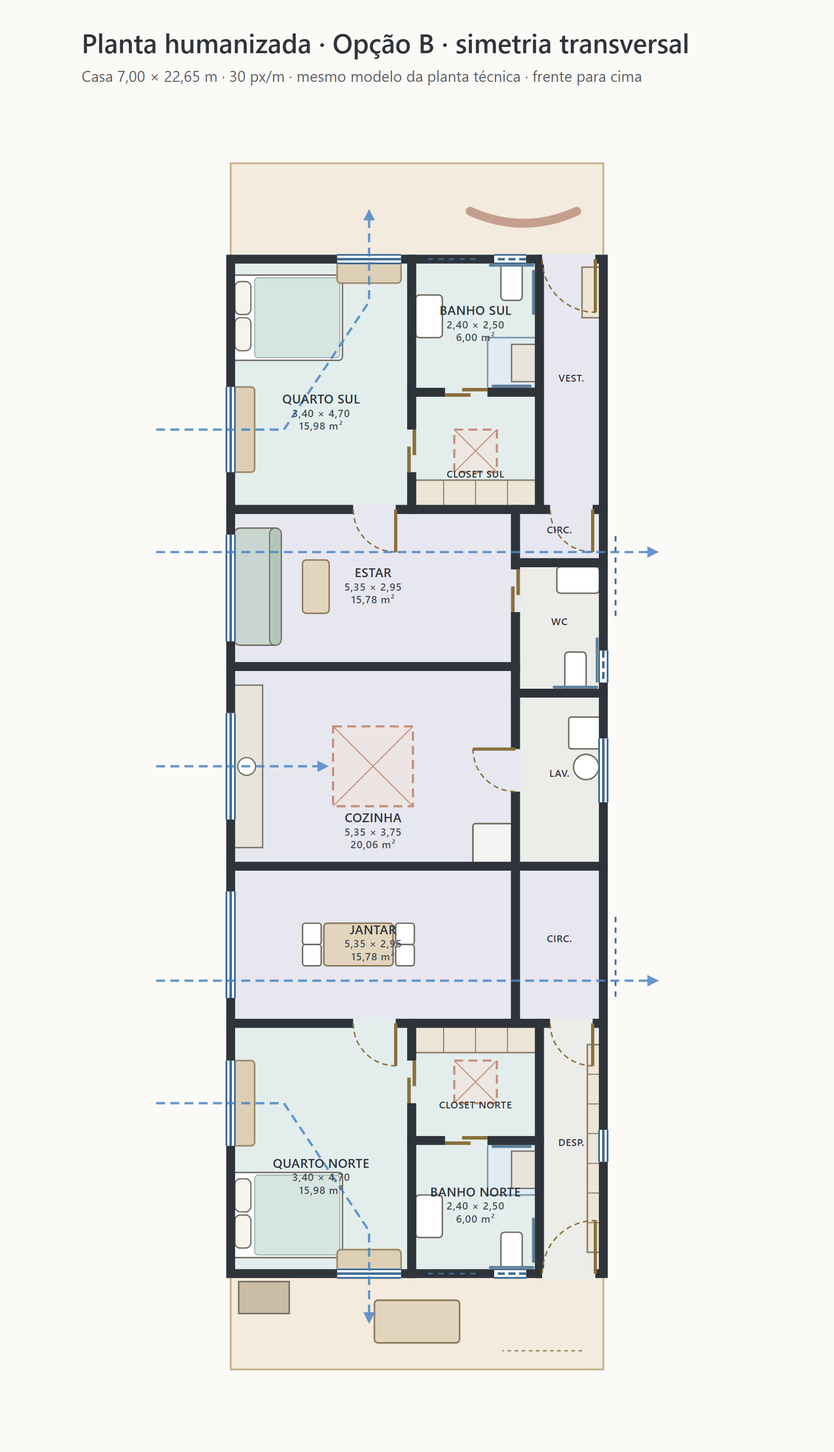
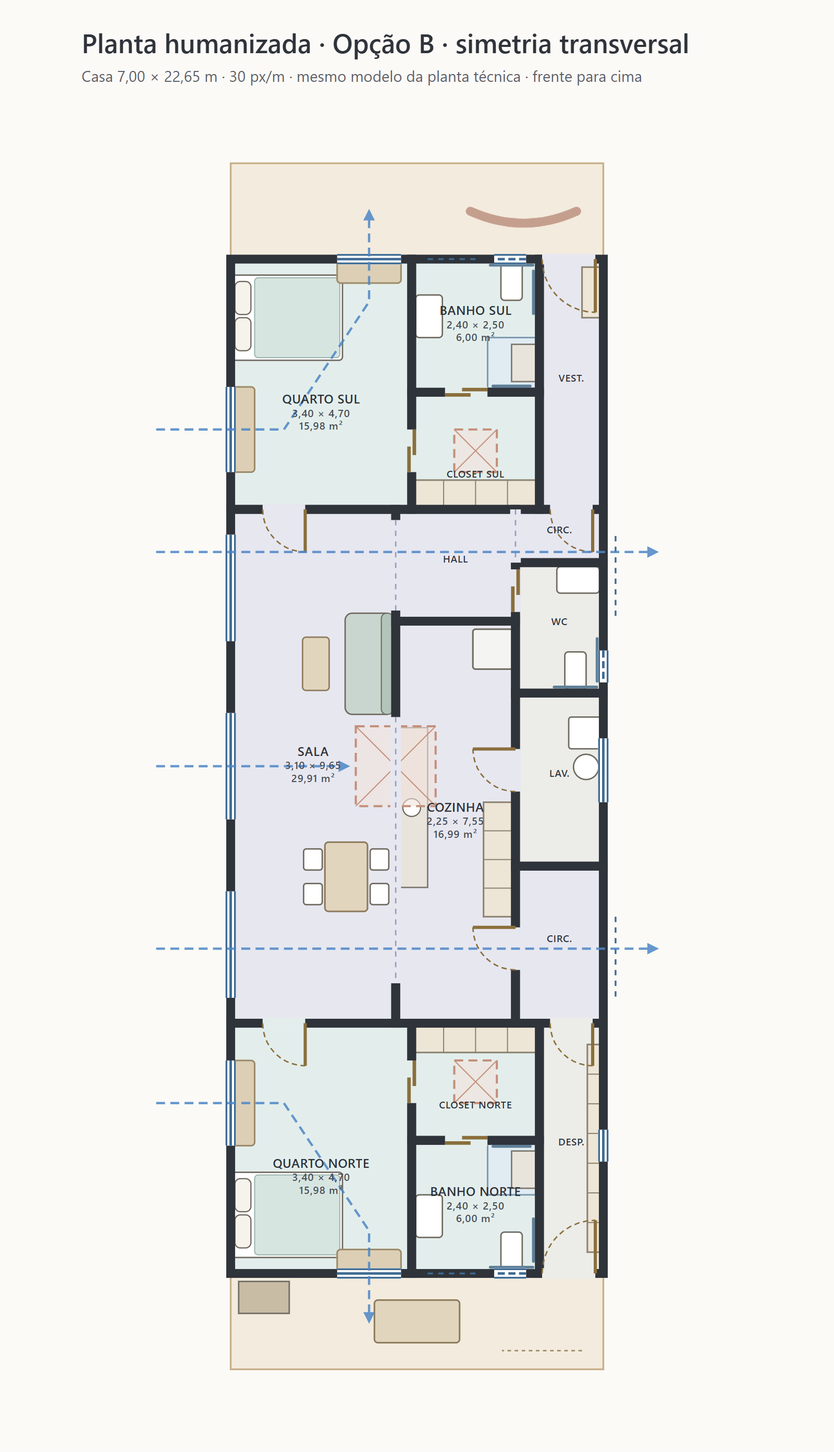
feat(casa-simetrica): opção B com sala única longitudinal, cozinha integrada e hall ao sul (M2)
Proposta principal aprovada: sala de estar e jantar de 3,10 × 9,65 m a
leste, cozinha integrada de 2,25 × 7,55 m com bancada voltada para a
sala e hall de 2,25 × 2,10 m. A visita vai do vestíbulo ao hall e à sala
sem passar pela cozinha; o WC abre para o hall; a circulação de serviço
liga a cozinha à despensa. As portas das suítes vão para o lado leste da
sala (a mesa de jantar encosta na cozinha e deixa 1,25 m para a rota).
Torre T1 na divisa aberta entre a cozinha e a sala. Planta técnica,
circulação, cortes, fachada, elevação, implantação, quadro, esquadrias e
textos atualizados; humanizadas reexportadas. Verificador de percurso
sem achado alto.

Changed region(s): [[0.2812, 0.3436, 0.625, 0.7185], [0.5312, 0.8122, 0.5938, 0.8434], [0.3125, 0.6873, 0.375, 0.7185]]

diff --git a/casa-simetrica/index.html b/casa-simetrica/index.html
@@ -1091,16 +1091,17 @@ function pImplA(){
 
 /* ---------- Opção B: geometria ----------
    x a partir da fachada oeste, d a partir da frente sul. Suítes: banho 2,40 × 2,50 e closet 2,40 × 2,20.
-   Social: faixa oeste de 1,65 m (circulação, WC acessível, lavanderia) e estar, cozinha e jantar com 5,35 m. */
+   Social (13/10/2026, miolo longitudinal): faixa oeste de 1,65 m (circulação, WC acessível, lavanderia); hall e cozinha integrada
+   com 2,25 m; sala única de estar e jantar com 3,10 m a leste. A visita vai do vestíbulo ao hall e à sala sem passar pela cozinha. */
 var BG={L:22.65,s1:6.5,c0:9.45,c1:13.2,fb:1.65,wc0:7.5,wc1:9.95,ax:11.325,t0:10.575,t1:12.075};
 var B2={id:'B2',nome:'Opção B · simetria transversal',o:ORI.S,Wb:7,L:BG.L,vseD:1.8,vnoD:1.8,
   amb:[['Quarto','3,40 × 4,70 m',2,15.98,'suite','Suíte'],['Banho acessível','2,40 × 2,50 m',2,6.00,'suite','Suíte'],['Closet','2,40 × 2,20 m',2,5.28,'suite','Suíte'],
-       ['Vestíbulo','1,20 × 4,70 m',1,5.64,'social','Social'],['Estar','5,35 × 2,95 m',1,15.7825,'social','Social'],['Cozinha','5,35 × 3,75 m',1,20.0625,'social','Social'],['Jantar','5,35 × 2,95 m',1,15.7825,'social','Social'],
+       ['Vestíbulo','1,20 × 4,70 m',1,5.64,'social','Social'],['Estar e jantar','3,10 × 9,65 m',1,29.915,'social','Social'],['Cozinha integrada','2,25 × 7,55 m',1,16.9875,'social','Social'],['Hall','2,25 × 2,10 m',1,4.725,'social','Social'],
        ['Circulações','1,65 × 1,00 + 1,65 × 2,95 m',1,6.5175,'social','Social'],
        ['WC social acessível','1,65 × 2,45 m',1,4.0425,'apoio','Apoio'],['Lavanderia','1,65 × 3,25 m',1,5.3625,'apoio','Apoio'],['Despensa e depósito','1,20 × 4,70 m',1,5.64,'apoio','Apoio']]};
 (function(){var z={suite:0,social:0,apoio:0}; B2.amb.forEach(function(r){z[r[4]]+=r[2]*r[3];});
   B2.vse=7*1.8; B2.vno=7*1.8; B2.nucleo=z.suite+z.social+z.apoio; B2.nucD=BG.L-3.6; B2.cob=7*BG.L;
-  B2.zonas=[z.suite,z.social,z.apoio,B2.vse+B2.vno]; B2.suiteTot=15.98+6.00+5.28; B2.sala=2*15.7825; B2.coz=20.0625;})();
+  B2.zonas=[z.suite,z.social,z.apoio,B2.vse+B2.vno]; B2.suiteTot=15.98+6.00+5.28; B2.sala=29.915; B2.coz=16.9875;})();
 function bMap(m){return {a0:1.275,su:1,d0:m?BG.L-4.225:4.225,sv:m?1:-1};}
 var BWC={a0:0.075,su:1,d0:7.575,sv:1};
 
@@ -1119,9 +1120,9 @@ function planB(){
   R(0,L-1.8,7,L,'z-var','Varanda norte, 7,00 × 1,80 m = 12,60 m², com churrasqueira, varal e mesa');
   R(0,1.8,1.2,6.5,'z-social','Vestíbulo de entrada, 1,20 × 4,70 m = 5,64 m², sapateira embutida');
   R(0,L-6.5,1.2,L-1.8,'z-apoio','Despensa e depósito, 1,20 × 4,70 m = 5,64 m², com prateleiras');
-  R(fb,6.5,7,9.45,'z-social','Estar, 5,35 × 2,95 m = 15,78 m²');
-  R(fb,9.45,7,13.2,'z-social','Cozinha, 5,35 × 3,75 m = 20,06 m²');
-  R(fb,13.2,7,16.15,'z-social','Jantar, 5,35 × 2,95 m = 15,78 m²');
+  R(fb,6.5,3.9,8.6,'z-social','Hall, 2,25 × 2,10 m = 4,73 m²');
+  R(3.9,6.5,7,16.15,'z-social','Sala de estar e jantar, 3,10 × 9,65 m = 29,91 m²');
+  R(fb,8.6,3.9,16.15,'z-social','Cozinha integrada, 2,25 × 7,55 m = 16,99 m², bancada de 3,00 m voltada para a sala');
   R(0,6.5,fb,7.5,'z-social','Circulação, 1,65 × 1,00 m');
   R(0,7.5,fb,9.95,'z-apoio','WC social acessível, 1,65 × 2,45 m = 4,04 m²');
   R(0,9.95,fb,13.2,'z-apoio','Lavanderia, 1,65 × 3,25 m = 5,36 m², com máquina e tanque');
@@ -1140,7 +1141,7 @@ function planB(){
     Ln(1.45,D(1.8),2.05,D(1.8),'win','J3, maxim-ar de 0,60 × 0,60 m sobre a bacia'); Ln(2.4,D(1.8),3.4,D(1.8),'hi','J4, basculante alto do banho');
     Ln(0.15,D(1.8),1.15,D(1.8),'dr');
     Ln(0.2,D(6.5),1.0,D(6.5),'dr');
-    Ln(3.9,D(6.5),4.7,D(6.5),'dr');
+    Ln(5.6,D(6.5),6.4,D(6.5),'dr');
     Ln(3.6,D(5.0),3.6,D(5.8),'dr');
     Ln(7,D(6.975),7,D(8.975),'win'); Ln(-0.23,D(7.0),-0.23,D(8.6),'hi');
     var tc=D(5.4); R(2.0,tc-0.4,2.8,tc+0.4,'z-torre','Torre T'+(m?'3':'2')+', 0,80 × 0,80 m, sobre o closet, abertura a oeste'); Tx(2.4,tc,m?'T3':'T2'); Ln(2.0,tc-0.4,2.0,tc+0.4,'op');
@@ -1148,20 +1149,21 @@ function planB(){
   });
   emitFix(BLY.B_wc,BWC,false,E);
   Ln(0,9.15,0,9.75,'win','J3, maxim-ar de 0,60 × 0,60 m sobre a bacia');
-  Ln(fb,11.0,fb,11.8,'dr'); Ln(0,10.8,0,12.0,'win'); Ln(0,L-4.5,0,L-3.9,'win');
+  Ln(fb,11.0,fb,11.8,'dr'); Ln(fb,14.35,fb,15.15,'dr','Cozinha → circulação de serviço, 0,80 m');
+  Ln(fb,6.5,fb,7.5,'vl','Vão livre de 1,00 m, circulação → hall'); Ln(3.9,6.7,3.9,8.4,'vl','Vão livre de 1,70 m, hall → sala'); Ln(3.9,10.4,3.9,15.4,'vl','Vão livre de 5,00 m entre a cozinha e a sala, com a bancada de 3,00 m'); Ln(0,10.8,0,12.0,'win'); Ln(0,L-4.5,0,L-3.9,'win');
   Ln(7,10.325,7,12.325,'win');
-  R(3.575,BG.t0,5.075,BG.t1,'z-torre','Torre T1, 1,50 × 1,50 m, sobre a cozinha, abertura a oeste'); Tx(4.325,BG.ax,'T1'); Ln(3.575,BG.t0,3.575,BG.t1,'op');
+  R(3.15,BG.t0,4.65,BG.t1,'z-torre','Torre T1, 1,50 × 1,50 m, sobre a divisa aberta entre a cozinha e a sala, abertura a oeste'); Tx(3.9,BG.ax,'T1'); Ln(3.15,BG.t0,3.15,BG.t1,'op');
   o.push('<line class="axis" x1="'+X(7.4)+'" y1="'+Y(BG.ax)+'" x2="'+X(-0.4)+'" y2="'+Y(BG.ax)+'"><title>Eixo de simetria transversal</title></line>');
   Pth([[8.4,5.0],[6.0,5.0],[4.4,2.6],[4.4,0.9]]);
   Pth([[8.4,mir(5.0)],[6.0,mir(5.0)],[4.4,mir(2.6)],[4.4,mir(0.9)]]);
-  Pth([[8.4,7.3],[-1.0,7.3]]); Pth([[8.4,mir(7.3)],[-1.0,mir(7.3)]]); Pth([[8.4,BG.ax],[5.2,BG.ax]]);
+  Pth([[8.4,7.3],[-1.0,7.3]]); Pth([[8.4,14.75],[-1.0,14.75]]); Pth([[8.4,BG.ax],[4.8,BG.ax]]);
   o.push('<text class="tx" x="'+X(3.5)+'" y="16" text-anchor="middle">Rua, sul</text>');
   Tx(5.8,0.9,'Var. S'); Tx(5.6,L-0.9,'Varanda N');
   T2(5.0,4.9,'Quarto','16,0 m²'); T2(5.0,mir(4.9),'Quarto','16,0 m²');
   Tx(2.4,6.15,'Closet'); Tx(2.4,mir(6.15),'Closet');
   Tx(0.6,3.2,'Vest.'); Tx(0.6,mir(3.2),'Desp.');
-  T2(5.0,7.975,'Estar','15,8 m²'); T2(5.0,mir(7.975),'Jantar','15,8 m²');
-  T2(6.0,10.4,'Cozinha','20,1 m²'); Tx(0.82,12.7,'Lav.');
+  Tx(5.75,8.0,'Estar'); T2(5.75,13.0,'Sala','29,9 m²'); Tx(5.75,15.6,'Jantar');
+  T2(2.6,9.9,'Cozinha','17,0 m²'); Tx(2.775,7.6,'Hall'); Tx(0.82,12.7,'Lav.');
   return northUp(o.join(''),X(-1.3)+10,Y(L)+36,180,'Planta técnica, opção B','Casa de 7 por 22,65 metros com eixo de simetria transversal, desenhada com o norte para cima; a rua fica ao sul.');
 }
 function implB(){
@@ -1178,7 +1180,7 @@ function implB(){
   R(1.5,f,8.5,f+1.8,'z-var','Varanda sul'); R(1.5,n1,8.5,f+L,'z-var','Varanda norte');
   R(1.5,f+1.8,2.7,f+6.5,'z-social','Vestíbulo'); R(2.7,f+1.8,5.1,f+6.5,'z-suite','Banho acessível e closet'); R(5.1,f+1.8,8.5,f+6.5,'z-suite','Quarto da suíte sul');
   R(1.5,n0,2.7,n1,'z-apoio','Despensa e depósito'); R(2.7,n0,5.1,n1,'z-suite','Banho acessível e closet'); R(5.1,n0,8.5,n1,'z-suite','Quarto da suíte norte');
-  R(1.5,f+6.5,3.15,n0,'z-apoio','Faixa oeste: circulação, WC acessível e lavanderia'); R(3.15,f+6.5,8.5,n0,'z-social','Estar, cozinha e jantar');
+  R(1.5,f+6.5,3.15,n0,'z-apoio','Faixa oeste: circulação, WC acessível e lavanderia'); R(3.15,f+6.5,5.4,n0,'z-social','Hall e cozinha integrada'); R(5.4,f+6.5,8.5,n0,'z-social','Sala de estar e jantar');
   T(X(6.8),Y(f+4.2)+4,'Suíte','middle'); T(X(5.8),Y(f+BG.ax)+4,'Social','middle'); T(X(6.8),Y(n0+2.4)+4,'Suíte','middle'); T(X(5),Y(f+L+rear/2)+4,'Quintal','middle');
   o.push('<rect class="lot" x="'+X(10)+'" y="'+Y(0)+'" width="120" height="360"><title>Lote de 10,00 × 30,00 m</title></rect>');
   o.push('<line class="axis" x1="'+(X(10)-6)+'" y1="'+Y(f+BG.ax)+'" x2="'+(X(0)+6)+'" y2="'+Y(f+BG.ax)+'"><title>Eixo de simetria transversal</title></line>');
@@ -1197,7 +1199,7 @@ function longB(){
   o.push('<text class="tx" x="18" y="24">S</text><text class="tx" x="364" y="24" text-anchor="end">N</text>');
   RB(0,1.8,3.0,'z-var','Varanda sul, laje a 3,00 m');
   RB(1.8,6.5,3.0,'z-suite','Quarto da suíte sul, 3,00 m');
-  RB(6.5,L-6.5,4.2,'z-social','Estar, cozinha e jantar, 4,20 m junto às paredes');
+  RB(6.5,L-6.5,4.2,'z-social','Sala, cozinha e hall, 4,20 m junto às paredes');
   RB(L-6.5,L-1.8,3.0,'z-suite','Quarto da suíte norte, 3,00 m');
   RB(L-1.8,L,3.0,'z-var','Varanda norte, laje a 3,00 m');
   Ln(X(0),Y(3.15),X(6.5),Y(3.15),'slab'); Ln(X(L-6.5),Y(3.15),X(L),Y(3.15),'slab');
@@ -1215,11 +1217,11 @@ function longB(){
   o.push('<path class="flow" d="M'+X(7.6)+' '+Y(1.2)+' Q'+X(9.8)+' '+Y(1.5)+' '+X(sm-0.3)+' '+Y(5.0)+' L'+X(sm-0.3)+' '+Y(7.6)+'" marker-end="url(#arw)"/>');
   o.push('<path class="flow" d="M'+X(L-7.6)+' '+Y(1.2)+' Q'+X(L-9.8)+' '+Y(1.5)+' '+X(sm+0.3)+' '+Y(5.0)+' L'+X(sm+0.3)+' '+Y(7.6)+'" marker-end="url(#arw)"/>');
   function B(d,t,y){o.push('<text class="tx" x="'+X(d)+'" y="'+(y||G+18)+'" text-anchor="middle">'+t+'</text>');}
-  B(0.9,'Var.'); B(4.15,'Suíte'); B(8.0,'Estar'); B(sm,'Cozinha'); B(sm,'4,2 a 5,0 m',G+34); B(L-8.0,'Jantar'); B(L-4.15,'Suíte'); B(L-0.9,'Var.');
-  return svgOpen(380,G+46,'Corte longitudinal, opção B','Sul à esquerda, norte à direita. Suítes nas extremidades, social no centro e torre T1 sobre a cozinha.')+o.join('')+'</svg>';
+  B(0.9,'Var.'); B(4.15,'Suíte'); B(sm,'Estar e jantar'); B(sm,'4,2 a 5,0 m',G+34); B(L-4.15,'Suíte'); B(L-0.9,'Var.');
+  return svgOpen(380,G+46,'Corte longitudinal, opção B','Sul à esquerda, norte à direita. Suítes nas extremidades, social no centro e torre T1 entre a cozinha e a sala.')+o.join('')+'</svg>';
 }
 function transB(){
-  var s=22,cx=170,G=Math.round(64+8.3*s),o=[],m=5,w0=-1.85,t0=0.075,t1=1.575;
+  var s=22,cx=170,G=Math.round(64+8.3*s),o=[],m=5,w0=-1.85,t0=-0.35,t1=1.15;
   function U(u){return +(cx+u*s).toFixed(1);} function H(h){return +(G-h*s).toFixed(1);}
   function RU(u1,h1,u2,h2,c,t){o.push('<rect class="'+c+'" x="'+U(u1)+'" y="'+H(h2)+'" width="'+(U(u2)-U(u1)).toFixed(1)+'" height="'+(H(h1)-H(h2)).toFixed(1)+'">'+(t?'<title>'+t+'</title>':'')+'</rect>');}
   function Ln(x1,y1,x2,y2,c){o.push('<line class="'+c+'" x1="'+x1+'" y1="'+y1+'" x2="'+x2+'" y2="'+y2+'"/>');}
@@ -1229,7 +1231,7 @@ function transB(){
   RU(-3.5,0,w0,3.0,'z-apoio','Lavanderia, 1,65 m de largura, laje a 3,00 m');
   Ln(U(-3.5),H(3.15),U(w0),H(3.15),'slab');
   RU(w0+0.15,3.2,3.35,4.2,'warm','Camada de ar quente acima de 3,20 m');
-  RU(t0,5.3,t1,8.3,'z-torre','Torre T1, 1,50 m de lado, sobre a cozinha');
+  RU(t0,5.3,t1,8.3,'z-torre','Torre T1, 1,50 m de lado, sobre a divisa aberta entre a cozinha e a sala');
   Ln(U(t0),H(8.1),U(t0),H(6.9),'op');
   [7.2,7.5,7.8].forEach(function(h){Ln(U(t0+0.25),H(h),U(t1-0.25),H(h),'vz');});
   o.push('<polyline class="ceil" points="'+U(w0+0.15)+','+H(4.2)+' '+U(t0)+','+H(5.0)+' '+U(t1)+','+H(5.0)+' '+U(3.35)+','+H(4.2)+'"/>');
@@ -1251,8 +1253,8 @@ function transB(){
   function Dm(h,x0,t){Ln(x0,H(h),350,H(h),'ld'); o.push('<text class="tx" x="354" y="'+(H(h)+4)+'">'+t+'</text>');}
   Dm(8.3,U(t1),'8,30'); Dm(5.3,U(3.5),'5,30'); Dm(3.0,U(4.0),'3,00'); o.push('<text class="tx" x="354" y="'+(G+4)+'">0,00</text>');
   var yb=G+18;
-  o.push('<text class="tx" x="14" y="'+yb+'">O</text><text class="tx" x="'+U(-4.25)+'" y="'+yb+'" text-anchor="middle">1,50</text><text class="tx" x="'+U(-2.675)+'" y="'+yb+'" text-anchor="middle">Lav.</text><text class="tx" x="'+U(0.9)+'" y="'+yb+'" text-anchor="middle">Cozinha, 5,35 m</text><text class="tx" x="'+U(4.25)+'" y="'+yb+'" text-anchor="middle">1,50</text><text class="tx" x="360" y="'+yb+'" text-anchor="end">L</text>');
-  return svgOpen(380,G+30,'Corte transversal pela cozinha, opção B','Oeste à esquerda, leste à direita. Lavanderia baixa a oeste, cozinha com forro em funil até a torre T1 e janelas altas acima da faixa de apoio.')+o.join('')+'</svg>';
+  o.push('<text class="tx" x="14" y="'+yb+'">O</text><text class="tx" x="'+U(-4.25)+'" y="'+yb+'" text-anchor="middle">1,50</text><text class="tx" x="'+U(-2.675)+'" y="'+yb+'" text-anchor="middle">Lav.</text><text class="tx" x="'+U(-0.72)+'" y="'+yb+'" text-anchor="middle">Cozinha</text><text class="tx" x="'+U(1.95)+'" y="'+yb+'" text-anchor="middle">Sala</text><text class="tx" x="'+U(4.25)+'" y="'+yb+'" text-anchor="middle">1,50</text><text class="tx" x="360" y="'+yb+'" text-anchor="end">L</text>');
+  return svgOpen(380,G+30,'Corte transversal pela cozinha, opção B','Oeste à esquerda, leste à direita. Lavanderia baixa a oeste, cozinha e sala integradas com forro em funil até a torre T1 e janelas altas acima da faixa de apoio.')+o.join('')+'</svg>';
 }
 function facadeB(){
   var s=22,cx=190,G=Math.round(66+8.3*s),o=[],m=5;
@@ -1261,7 +1263,7 @@ function facadeB(){
   function Ln(x1,y1,x2,y2,c){o.push('<line class="'+c+'" x1="'+x1+'" y1="'+y1+'" x2="'+x2+'" y2="'+y2+'"/>');}
   o.push('<text class="tx" x="20" y="30">Vista da rua, olhando para norte</text>');
   RU(-1.85,3.3,3.5,5.3,'z-social','Volume social, recuado, platibanda a 5,30 m');
-  RU(0.075,5.3,1.575,8.3,'z-torre','Torre T1, sobre a cozinha');
+  RU(-0.35,5.3,1.15,8.3,'z-torre','Torre T1, entre a cozinha e a sala');
   RU(-1.5,3.3,-0.7,5.8,'z-torre','Torre T2, sobre o closet da suíte sul');
   RU(-3.5,0,3.5,3.0,'z-suite','Plano da fachada sul');
   RU(-3.62,3.0,3.62,3.3,'z-struct','Laje da varanda, 3,00 a 3,30 m');
@@ -1278,7 +1280,7 @@ function facadeB(){
   RU(-m-0.15,0,-m,2.5,'z-struct','Muro de divisa oeste, 2,50 m'); RU(m,0,m+0.15,2.5,'z-struct','Muro de divisa leste, 2,50 m');
   Ln(20,G,360,G,'gnd');
   function Dm(h,x0,t,dy){Ln(x0,H(h),352,H(h),'ld'); o.push('<text class="tx" x="354" y="'+(H(h)+(dy||4))+'">'+t+'</text>');}
-  Dm(8.3,U(1.575),'8,30'); Dm(5.3,U(3.5),'5,30'); Dm(3.3,U(3.62),'3,30'); Dm(2.65,U(1.5),'2,65');
+  Dm(8.3,U(1.15),'8,30'); Dm(5.3,U(3.5),'5,30'); Dm(3.3,U(3.62),'3,30'); Dm(2.65,U(1.5),'2,65');
   o.push('<text class="tx" x="354" y="'+(G+4)+'">0,00</text>');
   var yb=G+20;
   o.push('<text class="tx" x="'+U(-m)+'" y="'+yb+'" text-anchor="middle">O</text><text class="tx" x="'+U(-2.85)+'" y="'+yb+'" text-anchor="middle">Entrada</text><text class="tx" x="'+U(-0.9)+'" y="'+yb+'" text-anchor="middle">Banho</text><text class="tx" x="'+U(1.9)+'" y="'+yb+'" text-anchor="middle">Suíte sul</text><text class="tx" x="'+U(m)+'" y="'+yb+'" text-anchor="middle">L</text>');
@@ -1302,14 +1304,14 @@ function elevB(){
     V(j[2],j[2]+0.12,0.4,2.72,'z-struct','Aleta no batente do lado da cama');
   });
   V(6.975,8.975,0.9,2.3,'z-glass','J5, correr com veneziana, 2,00 × 1,40 m'); V(L-8.975,L-6.975,0.9,2.3,'z-glass','J5, correr com veneziana, 2,00 × 1,40 m');
-  V(10.325,12.325,1.1,2.3,'z-glass','J7, cozinha, 2,00 × 1,20 m');
+  V(10.325,12.325,1.1,2.3,'z-glass','J7, sala, no eixo, 2,00 × 1,20 m');
   Ln(X(6.5),Y(4.5),X(L-6.5),Y(4.5),'fin');
   o.push('<line class="axis" x1="'+X(BG.ax)+'" y1="34" x2="'+X(BG.ax)+'" y2="'+(G+6)+'"><title>Eixo de simetria transversal</title></line>');
   Ln(20,G,348,G,'gnd');
   function Dm(h,x0,t){Ln(x0,Y(h),350,Y(h),'ld'); o.push('<text class="tx" x="354" y="'+(Y(h)+4)+'">'+t+'</text>');}
   Dm(8.3,X(tB),'8,30'); Dm(5.3,X(L-6.5),'5,30'); Dm(3.3,X(L-1.8),'3,30');
   var yb=G+18;
-  [[0,'S'],[4.15,'Suíte sul'],[8.0,'Estar'],[BG.ax,'Cozinha'],[L-8.0,'Jantar'],[L-4.15,'Suíte norte'],[L,'N']].forEach(function(p){o.push('<text class="tx" x="'+X(p[0])+'" y="'+yb+'" text-anchor="middle">'+p[1]+'</text>');});
+  [[0,'S'],[4.15,'Suíte sul'],[8.0,'Estar'],[BG.ax,'Sala'],[L-8.0,'Jantar'],[L-4.15,'Suíte norte'],[L,'N']].forEach(function(p){o.push('<text class="tx" x="'+X(p[0])+'" y="'+yb+'" text-anchor="middle">'+p[1]+'</text>');});
   return svgOpen(380,G+30,'Elevação leste, opção B','Sul à esquerda, norte à direita. Fachada simétrica em relação ao eixo transversal, com as janelas-banco dos quartos a nascente.')+o.join('')+'</svg>';
 }
 
@@ -1320,18 +1322,18 @@ function sinteseB(){
   '<div class="hero" style="align-items:start"><div><p class="lede">Com a frente para sul, a rua deixa de receber o sol da manhã. O eixo de simetria passa a ser transversal: as suítes ocupam as duas extremidades e abrem para a lateral leste, e o lado oeste concentra circulações, lavanderia e áreas molhadas como barreira térmica.</p>'+
   '<div class="stats" style="grid-template-columns:repeat(2,minmax(0,1fr))">'+
   stat('Suíte completa',calc(f2(v.suiteTot)+' m²','15,98 (quarto) + 6,00 (banho) + 5,28 (closet) = '+f2(v.suiteTot)+' m²'),'--patina')+
-  stat('Estar e jantar',calc(f2(v.sala)+' m²','15,78 (estar) + 15,78 (jantar); com a cozinha central integrada, '+f2(v.sala+v.coz)+' m²'),'--slate')+
-  stat('Cozinha',calc(f2(v.coz)+' m²','5,35 × 3,75 = '+f2(v.coz)+' m² (mínimo exigido: 20)'),'--slate')+
+  stat('Estar e jantar',calc(f2(v.sala)+' m²','sala única de 3,10 × 9,65 m; com a cozinha integrada, '+f2(v.sala+v.coz)+' m²'),'--slate')+
+  stat('Cozinha',calc(f2(v.coz)+' m²','2,25 × 7,55 = '+f2(v.coz)+' m², integrada à sala (premissa: 20)'),'--slate')+
   stat('Área coberta',calc(f2(v.cob)+' m²',f2(v.nucleo)+' (fechada) + 25,20 (varandas) = '+f2(v.cob)+' m²'))+
   '</div></div>'+
   '<div class="carimbo"><div class="title">Frente sul</div>'+
   '<div class="row">'+cell('Quarto','3,40 × 4,70 m (15,98 m²)')+cell('Casa','7,00 × '+f2(BG.L)+' m')+'</div>'+
   '<div class="row">'+cell('Lote','10,00 × 30,00 m')+cell('Ocupação',calc(pct(v.cob/300),f2(v.cob)+' ÷ 300,00 = '+pct(v.cob/300)))+'</div>'+
-  '<div class="row">'+cell('Eixo de simetria','Transversal, y = '+f2(BG.ax))+cell('Torre T1','1,50 m, sobre a cozinha')+'</div>'+
+  '<div class="row">'+cell('Eixo de simetria','Transversal, y = '+f2(BG.ax))+cell('Torre T1','1,50 m, entre a cozinha e a sala')+'</div>'+
   '<div class="row">'+cell('Iluminação do quarto',calc('6,16 m²','(1,60 + 1,20) × 2,20 = 6,16 m², contra o mínimo usual de 15,98 ÷ 6 = 2,66 m²'))+cell('Recuo de fundo',calc(f2(30-5-BG.L)+' m','30,00 − 5,00 − '+f2(BG.L)+' = '+f2(30-5-BG.L)+' m'))+'</div>'+
   '</div></div>'+
   '<div class="grid2"><div class="card tint" style="--c:var(--patina)"><h3>O que a frente sul preserva</h3><ul class="clean" style="--c:var(--patina)"><li>Simetria perfeita, agora entre a metade sul e a metade norte.</li><li>Quartos com janela principal para leste e sol exclusivamente matinal.</li><li>Banho acessível com entrada exclusiva pela suíte, via closet.</li><li>Lado oeste ocupado por vestíbulo, despensa, WC, lavanderia e banhos: o colchão térmico da premissa original.</li></ul></div>'+
-  '<div class="card tint" style="--c:var(--rust)"><h3>Concessões</h3><ul class="clean" style="--c:var(--rust)"><li>Estar e jantar somam '+f2(v.sala)+' m², abaixo dos 40 m² das premissas; com a cozinha central integrada, o espaço social contínuo chega a '+f2(v.sala+v.coz)+' m².</li><li>As janelas leste dos quartos ficam a 1,50 m do muro: o peitoril só recebe sol a partir de cerca de 54° de altura solar.</li><li>O vento chega à lateral leste depois de passar pela casa vizinha; as torres T1, T2 e T3 passam a ser essenciais.</li><li>A entrada fica fora do eixo, junto à lateral oeste, e a fachada da rua não é simétrica.</li></ul></div></div>'+
+  '<div class="card tint" style="--c:var(--rust)"><h3>Concessões</h3><ul class="clean" style="--c:var(--rust)"><li>Estar e jantar somam '+f2(v.sala)+' m², abaixo dos 40 m² das premissas; com a cozinha integrada, o espaço social contínuo chega a '+f2(v.sala+v.coz)+' m².</li><li>A cozinha tem '+f2(v.coz)+' m², abaixo dos 20 m² das premissas, e não tem janela externa: recebe luz e ar pela sala e pela torre T1, sobre a divisa aberta.</li><li>As janelas leste dos quartos ficam a 1,50 m do muro: o peitoril só recebe sol a partir de cerca de 54° de altura solar.</li><li>O vento chega à lateral leste depois de passar pela casa vizinha; as torres T1, T2 e T3 passam a ser essenciais.</li><li>A entrada fica fora do eixo, junto à lateral oeste, e a fachada da rua não é simétrica.</li></ul></div></div>'+
   '<div class="card tint" style="--c:var(--steel)"><h3>Adaptação de acessibilidade</h3><ul class="clean" style="--c:var(--steel)"><li>Banhos de 2,20 para 2,50 m de profundidade, com giro de 1,50 m, transferência lateral à bacia e boxe sem desnível; os quartos passam a 4,70 m.</li><li>Faixa oeste de 1,50 para 1,65 m, para o WC social acessível de 1,65 × 2,45 m, com porta para o estar.</li><li>Cozinha com 3,75 m de profundidade, para manter os 20 m² com a nova largura de 5,35 m.</li><li>A casa passa de 22,00 para '+f2(BG.L)+' m de comprimento, e o quintal fica com '+f2(30-5-BG.L)+' m.</li></ul></div>';
 }
 function pImplB(){
@@ -1346,19 +1348,19 @@ function pImplB(){
   '<tr class="total"><td>Área livre</td><td class="n">'+calc(f2(300-B2.cob)+' m²','300,00 − '+f2(B2.cob)+' = '+f2(300-B2.cob)+' m² ('+pct(1-B2.cob/300)+')')+'</td><td>Permeabilidade depende dos pisos</td></tr></tbody></table></div>';
 }
 function pPlantaB(){
-  return head(B2,'Planta técnica','Suítes nas duas extremidades, com quartos abertos para leste; estar, cozinha e jantar no centro; circulação, WC acessível e lavanderia na faixa oeste.','--patina')+
+  return head(B2,'Planta técnica','Suítes nas duas extremidades, com quartos abertos para leste; no centro, sala única de estar e jantar a leste, cozinha integrada e hall; circulação, WC acessível e lavanderia na faixa oeste.','--patina')+
   '<figure class="figure">'+planB()+LEG_PLAN+LEG_ACC+'<figcaption>Desenho esquemático gerado a partir das medidas, a 26 px por metro, com o norte para cima. O mobiliário está na planta humanizada e na planta de circulação.</figcaption></figure>'+
   '<div class="grid2"><div class="card tint" style="--c:var(--patina)"><h3>Suítes</h3><p style="margin-bottom:0">Cada quarto, de 3,40 × 4,70 m, tem a cabeceira na parede leste, ao lado de uma janela-banco de 1,60 m. O banho acessível, de 2,40 × 2,50 m, é alcançado pelo closet, que tem 2,20 m de profundidade e armário de 0,55 m, deixando livre um giro de 1,50 m.</p></div>'+
-  '<div class="card tint" style="--c:var(--slate)"><h3>Social e apoio</h3><p style="margin-bottom:0">Estar e jantar, com 15,78 m² cada, ladeiam a cozinha central de 20,06 m², sob a torre T1. A faixa oeste, agora com 1,65 m, leva do vestíbulo ao WC acessível, que abre para o estar, abriga a lavanderia ao lado da cozinha e chega à despensa, com saída para a varanda norte.</p></div></div>';
+  '<div class="card tint" style="--c:var(--slate)"><h3>Social e apoio</h3><p style="margin-bottom:0">Quem chega vai do vestíbulo à circulação, ao hall e à sala, sem passar pela cozinha. A sala única de estar e jantar, com 29,91 m², ocupa a faixa leste, com três janelas para o nascente; a cozinha de 16,99 m² se abre para ela num vão de 5,00 m, com a bancada voltada para a sala, sob a torre T1. As suítes se abrem para o estar e para o jantar. A faixa oeste, com 1,65 m, leva ao WC acessível, que abre para o hall, e à lavanderia, ao lado da cozinha; a circulação de serviço liga a cozinha à despensa e à varanda norte.</p></div></div>';
 }
 function pCortesB(){
-  return head(B2,'Cortes','Social alto e simétrico entre duas suítes baixas: o forro em funil sobe dos dois lados até a torre T1, sobre a cozinha.','--slate')+
+  return head(B2,'Cortes','Social alto entre duas suítes baixas: o forro em funil sobe dos dois lados até a torre T1, entre a cozinha e a sala.','--slate')+
   '<figure class="figure">'+longB()+'<figcaption>Corte longitudinal sul–norte pela torre T1. Escala gráfica: 14 px por metro.</figcaption></figure>'+
   '<figure class="figure">'+transB()+'<figcaption>Corte transversal pela cozinha e pela T1, com os muros de divisa a 1,50 m das paredes.</figcaption></figure>'+
   '<div class="tbl-wrap"><table><thead><tr><th>Elemento</th><th class="n">Altura</th><th>Observação</th></tr></thead><tbody>'+
   '<tr><td>Quartos, banhos, closets e faixa oeste</td><td class="n">3,00 m</td><td>Laje a 3,00 m; cobertura a 3,30 m</td></tr>'+
-  '<tr><td>Estar, cozinha e jantar, junto às paredes</td><td class="n">4,20 m</td><td>Faixa recomendada: 4,00 a 4,50 m</td></tr>'+
-  '<tr><td>Cozinha, sob a torre</td><td class="n">'+calc('5,00 m','4,20 + 0,80 de funil = 5,00 m; 1,93 m de cada lado da torre no sentido leste–oeste e 4,08 m no sentido sul–norte')+'</td><td>Forro em funil conduz o ar quente à T1</td></tr>'+
+  '<tr><td>Sala, cozinha e hall, junto às paredes</td><td class="n">4,20 m</td><td>Faixa recomendada: 4,00 a 4,50 m</td></tr>'+
+  '<tr><td>Cozinha e sala, sob a torre</td><td class="n">'+calc('5,00 m','4,20 + 0,80 de funil = 5,00 m; 1,50 m a oeste e 2,35 m a leste da torre, e 4,08 m no sentido sul–norte')+'</td><td>Forro em funil conduz o ar quente à T1</td></tr>'+
   '<tr><td>Platibanda</td><td class="n">5,30 m</td><td>Esconde o funil; calhas atrás da platibanda</td></tr>'+
   '<tr><td>Janelas altas a oeste</td><td class="n">3,40 a 4,10 m</td><td>'+calc('Acima da cobertura da faixa de apoio','Cobertura da faixa oeste a 3,30 m; peitoril das janelas a 3,40 m')+'</td></tr>'+
   '<tr><td>Topo das torres T2 e T3</td><td class="n">'+calc('5,80 m','3,30 + 2,50 = 5,80 m')+'</td><td>Sobre os closets, abertura a oeste</td></tr>'+
@@ -1369,7 +1371,7 @@ function pFachadaB(){
   return head(B2,'Fachadas','A fachada da rua não é simétrica: mostra a entrada, o banho e a suíte sul. A composição simétrica aparece na elevação leste, voltada para o recuo lateral.','--graphite')+
   '<figure class="figure">'+facadeB()+'<figcaption>Fachada sul, vista da rua. Vergas e bandeira alinhadas a 2,65 m.</figcaption></figure>'+
   '<figure class="figure">'+elevB()+'<figcaption>Elevação leste. Escala gráfica: 13,5 px por metro; as torres aparecem recuadas.</figcaption></figure>'+
-  '<div class="grid2"><div class="card tint" style="--c:var(--graphite)"><h3>Alinhamentos</h3><ul class="clean" style="--c:var(--graphite)"><li>Vergas das janelas-banco e bandeira da porta a 2,65 m.</li><li>Na elevação leste, janelas-banco dos quartos, janelas do estar e do jantar e a janela da cozinha espelhadas em relação ao eixo transversal.</li><li>Torre T1 no centro do volume social, T2 e T3 sobre os closets.</li><li>Pilares apenas nas quinas das varandas.</li></ul></div>'+
+  '<div class="grid2"><div class="card tint" style="--c:var(--graphite)"><h3>Alinhamentos</h3><ul class="clean" style="--c:var(--graphite)"><li>Vergas das janelas-banco e bandeira da porta a 2,65 m.</li><li>Na elevação leste, janelas-banco dos quartos, janelas da sala espelhadas em relação ao eixo transversal.</li><li>Torre T1 no centro do volume social, T2 e T3 sobre os closets.</li><li>Pilares apenas nas quinas das varandas.</li></ul></div>'+
   '<div class="card tint" style="--c:var(--brass)"><h3>Materiais sugeridos</h3><ul class="clean" style="--c:var(--brass)"><li>Reboco claro de textura fina ou tijolo aparente, de boa inércia térmica.</li><li>Porta pivotante e venezianas em madeira certificada.</li><li>Brises verticais na faixa oeste, protegendo lavanderia e WC do sol da tarde.</li><li>Divisa leste em gradil ou muro vazado, para não barrar o sol da manhã e o vento nos quartos.</li></ul></div></div>';
 }
 function pEsqB(){
@@ -1377,20 +1379,22 @@ function pEsqB(){
     ['J2 (2)','Quartos, frente sul e fundo norte','1,20 × 2,20 m','0,45 m','Janela-banco em três registros, sob a varanda; saída do ar.'],
     ['J3 (3)','Banhos e WC, sobre a bacia','0,60 × 0,60 m','1,60 m','Maxim-ar com vidro mini-boreal.'],
     ['J4 (2)','Banhos, fachadas sul e norte','1,00 × 0,60 m','1,60 m','Basculante alto com vidro fosco.'],
-    ['J5 (2)','Estar e jantar, lateral leste','2,00 × 1,40 m','0,90 m','Correr com veneziana; entrada do ar.'],
-    ['J6 (2)','Estar e jantar, lateral oeste, altas','1,60 × 0,70 m','3,40 m','Basculantes acima da faixa de apoio, com brise; saída do ar a sotavento.'],
-    ['J7 (1)','Cozinha, lateral leste','2,00 × 1,20 m','1,10 m','Correr, sobre a bancada.'],
+    ['J5 (2)','Sala (estar e jantar), lateral leste','2,00 × 1,40 m','0,90 m','Correr com veneziana; entrada do ar.'],
+    ['J6 (2)','Hall e cozinha, lateral oeste, altas','1,60 × 0,70 m','3,40 m','Basculantes acima da faixa de apoio, com brise; saída do ar a sotavento.'],
+    ['J7 (1)','Sala, lateral leste, no eixo','2,00 × 1,20 m','1,10 m','Correr com veneziana; entrada do ar no meio da sala.'],
     ['J8 (1)','Despensa, lateral oeste','0,60 × 0,60 m','1,60 m','Basculante com vidro fosco.'],
     ['J9 (1)','Lavanderia, lateral oeste','1,20 × 1,00 m','1,10 m','Veneziana basculante com brise vertical externo.']];
   var P=[['P1 (1)','Entrada, varanda sul → vestíbulo','1,00 m','Pivotante com veneziana.'],
     ['P2 (1)','Vestíbulo → circulação','1,00 m','Vão livre.'],
-    ['P3 (2)','Estar ou jantar → quarto','0,90 m','Giro, com bandeira ventilada; vão livre de 0,80 m.'],
+    ['P3 (2)','Sala (estar ou jantar) → quarto','0,90 m','Giro, com bandeira ventilada; vão livre de 0,80 m.'],
     ['P4 (2)','Quarto → closet','0,90 m','Correr embutida, vão livre de 0,80 m.'],
     ['P5 (2)','Closet → banho acessível','0,90 m','Correr, vão livre de 0,80 m, puxador horizontal na face interna.'],
-    ['P6 (1)','Estar → WC social acessível','0,90 m','Correr ou giro abrindo para o estar, vão livre de 0,80 m.'],
+    ['P6 (1)','Hall → WC social acessível','0,90 m','Correr ou giro abrindo para o hall, vão livre de 0,80 m.'],
     ['P7 (1)','Cozinha → lavanderia','0,80 m','Giro.'],
     ['P8 (1)','Circulação → despensa e depósito','0,80 m','Giro.'],
-    ['P9 (1)','Despensa → varanda norte','1,00 m','Veneziana, para ventilação permanente e saída para o quintal.']];
+    ['P9 (1)','Despensa → varanda norte','1,00 m','Veneziana, para ventilação permanente e saída para o quintal.'],
+    ['P10 (1)','Cozinha → circulação de serviço','0,80 m','Giro.'],
+    ['V1 (1)','Circulação → hall','1,00 m','Vão livre, sem folha.'],['V2 (1)','Hall → sala','1,70 m','Vão livre, sem folha.'],['V3 (1)','Cozinha ↔ sala','5,00 m','Vão livre, com a bancada de 3,00 m voltada para a sala.']];
   return head(B2,'Esquadrias','As esquadrias se repetem em pares espelhados em relação ao eixo transversal, exceto as da faixa oeste e da cozinha.','--steel')+
   '<h3>Janelas</h3><div class="tbl-wrap"><table><thead><tr><th>Código</th><th>Local</th><th class="n">L × A</th><th class="n">Peitoril</th><th>Tipo e proteção</th></tr></thead><tbody>'+
   J.map(function(r){return '<tr><td>'+r[0]+'</td><td>'+r[1]+'</td><td class="n">'+r[2]+'</td><td class="n">'+r[3]+'</td><td>'+r[4]+'</td></tr>';}).join('')+'</tbody></table></div>'+
@@ -1457,9 +1461,9 @@ function roomsB(){
     {n:'Closet, suíte norte',s:'Closet',r:m([1.2,4.3,3.6,6.5]),f:clf.map(m),giro:1},
     {n:'Vestíbulo',s:'Vest.',r:[0,1.8,1.2,6.5],f:[]},
     {n:'Circulação de entrada',s:'Circ.',r:[0,6.5,fb,7.5],f:[]},
-    {n:'Estar',s:'Estar',r:[fb,6.5,7,9.45],f:[[6.05,6.85,6.95,9.05,'Sofá de 3 lugares'],[5.15,7.45,5.65,8.45,'Mesa de centro']],giro:1},
-    {n:'Cozinha',s:'Cozinha',r:[fb,9.45,7,13.2],f:[[6.4,9.8,7,12.85,'Bancada sob a janela'],[1.7,12.4,2.45,13.15,'Geladeira']],giro:1},
-    {n:'Jantar',s:'Jantar',r:[fb,13.2,7,16.15],f:[[3.5,13.82,5.7,15.52,'Mesa de jantar de 6 lugares, com as cadeiras']],giro:1},
+    {n:'Hall',s:'Hall',r:[fb,6.5,3.9,8.6],f:[]},
+    {n:'Estar e jantar',s:'Sala',r:[3.9,6.5,7,16.15],f:[[3.95,8.45,4.85,10.35,'Sofá de 3 lugares'],[5.15,8.9,5.65,9.9,'Mesa de centro'],[3.98,12.3,5.68,14.5,'Mesa de jantar de 6 lugares, com as cadeiras']],giro:1},
+    {n:'Cozinha',s:'Cozinha',r:[fb,8.6,3.9,16.15],f:[[3.3,10.6,3.9,13.6,'Bancada de 0,60 m voltada para a sala, com pia e cooktop'],[1.7,8.75,2.45,9.5,'Geladeira'],[1.65,12.0,2.25,14.15,'Armário de 0,60 m']],giro:1},
     {n:'Circulação oeste',s:'Circ.',r:[0,13.2,fb,16.15],f:[],giro:1},
     {n:'WC social acessível',s:'WC',r:[0,7.5,fb,9.95],bath:{Ly:BLY.B_wc,M:BWC,sh:false}},
     {n:'Lavanderia',s:'Lav.',r:[0,9.95,fb,13.2],f:[[0,10.4,0.65,11.65,'Tanque e máquina']]},
@@ -1467,12 +1471,12 @@ function roomsB(){
   ];
   var bs=bMap(false),bn=bMap(true),Lb=BLY.B_banho,dx=1.275+(Lb.door.u1+Lb.door.u2)/2;
   function bc(M,Ly){return [M.a0+M.su*Ly.c[0],M.d0+M.sv*Ly.c[1]];}
-  var r1=[[0.65,0.9],[0.65,7.0],[4.3,7.0],[4.3,5.4],[dx,5.4],[dx,4.3],bc(bs,Lb)];
-  var r2=[[4.3,7.0],[4.3,L-7.0],[4.3,L-5.4],[dx,L-5.4],[dx,L-4.3],bc(bn,Lb)];
+  var r1=[[0.65,0.9],[0.65,7.0],[6.0,7.0],[6.0,5.4],[dx,5.4],[dx,4.3],bc(bs,Lb)];
+  var r2=[[6.0,7.0],[6.0,L-7.0],[6.0,L-5.4],[dx,L-5.4],[dx,L-4.3],bc(bn,Lb)];
   var r3=[[2.6,7.0],[2.6,8.025],[1.65,8.025],bc(BWC,BLY.B_wc)];
-  var r4=[[4.3,7.0],[3.2,BG.ax]];
+  var r4=[[6.0,7.0],[6.0,14.9],[2.9,14.9]];
   return {R:R,routes:[r1,r2,r3,r4],ext:[[0,0,7,1.8],[0,L-1.8,7,L]],W:7,L:L,up:180,flip:true,
-    faixas:[['Vestíbulo, entre paredes',1.05,1],['Faixa oeste, circulação',fb-0.15,1],['Quarto, ao lado da cama',4.9-3.675,1],['Closet, em frente ao armário',2.2-0.15-0.55,1],['Cozinha, entre a bancada e a geladeira',6.4-2.45,1]]};
+    faixas:[['Vestíbulo, entre paredes',1.05,1],['Faixa oeste, circulação',fb-0.15,1],['Quarto, ao lado da cama',4.9-3.675,1],['Closet, em frente ao armário',2.2-0.15-0.55,1],['Hall, entre paredes',3.9-fb-0.15,1],['Sala, entre a mesa de centro e a parede leste',7-0.075-5.65,1],['Sala, entre a mesa de jantar e a parede leste',7-0.075-5.68,1],['Cozinha, entre o armário e a bancada',3.3-2.25,1]]};
 }
 function giroSearch(r,F){
   var x1=r[0]+0.075,y1=r[1]+0.075,x2=r[2]-0.075,y2=r[3]-0.075,best=null,cx=(x1+x2)/2,cy=(y1+y2)/2;
@@ -1580,7 +1584,7 @@ function pComparativo(){
   row('Quarto',[q(A),'3,40 × 4,70 m (15,98 m²)',q(C),q(D)])+
   row('Banho acessível',[f2(A.bath)+' × '+f2(A.cs)+' m','2,40 × 2,50 m',f2(C.bath)+' × '+f2(C.cs)+' m',f2(D.bath)+' × '+f2(D.cs)+' m'])+
   row('Suíte completa',X.map(function(v){return m2(v.suiteTot);}))+
-  row('Estar e jantar',[m2(A.a.sala),calc(m2(B.sala),'15,78 (estar) + 15,78 (jantar)'),m2(C.a.sala),m2(D.a.sala)])+
+  row('Estar e jantar',[m2(A.a.sala),calc(m2(B.sala),'sala única de 3,10 × 9,65 m'),m2(C.a.sala),m2(D.a.sala)])+
   row('Cozinha',[m2(A.a.coz),m2(B.coz),m2(C.a.coz),m2(D.a.coz)])+
   row('Apoios',X.map(function(v){return m2(v.zonas[2]);}))+
   row('Varandas',X.map(function(v){return m2(v.vse+v.vno);}))+
@@ -1592,9 +1596,9 @@ function pComparativo(){
   row('Ocupação no mínimo',[calc(pct(A.cob/300),f2(A.cob)+' ÷ 300,00'),calc(pct(B.cob/300),f2(B.cob)+' ÷ 300,00'),calc(pct(C.lots.min.ocup),f2(C.cob)+' ÷ '+f2(C.lots.min.area)),calc(pct(D.lots.min.ocup),f2(D.cob)+' ÷ '+f2(D.lots.min.area))])+
   row('Recuo de fundo no mínimo',[f2(A.lots.min.rear)+' m',f2(30-5-BG.L)+' m',f2(C.lots.min.rear)+' m',f2(D.lots.min.rear)+' m'])+
   row('Lote ideal',['Não se aplica','Não se aplica',f2(C.lots.ideal.w)+' × '+f2(C.lots.ideal.d)+' m',f2(D.lots.ideal.w)+' × '+f2(D.lots.ideal.d)+' m'])+
-  row('Torre T1',['1,50 m, sobre a sala','1,50 m, sobre a cozinha',f2(C.t1)+' m, sobre a sala',f2(D.t1)+' m, sobre a sala'])+
+  row('Torre T1',['1,50 m, sobre a sala','1,50 m, entre a cozinha e a sala',f2(C.t1)+' m, sobre a sala',f2(D.t1)+' m, sobre a sala'])+
   '</tbody></table></div>'+
-  '<div class="grid2"><div class="card tint" style="--c:var(--steel)"><h3>Quando o lote é de 10 × 30</h3><p style="margin-bottom:0">A casa ocupa toda a largura edificável de 7 m, e os banheiros acessíveis só cabem alongando a casa. Com a frente a leste ou sudeste, a opção A chega a '+f2(A.L)+' m de comprimento, com quartos de '+f2(A.a.quarto)+' m² e sala de 42 m². Com a frente sul, a opção B chega a '+f2(B.L)+' m, com quartos de 15,98 m² e lavanderia, mas divide a sala em estar e jantar e depende mais das torres.</p></div>'+
+  '<div class="grid2"><div class="card tint" style="--c:var(--steel)"><h3>Quando o lote é de 10 × 30</h3><p style="margin-bottom:0">A casa ocupa toda a largura edificável de 7 m, e os banheiros acessíveis só cabem alongando a casa. Com a frente a leste ou sudeste, a opção A chega a '+f2(A.L)+' m de comprimento, com quartos de '+f2(A.a.quarto)+' m² e sala de 42 m². Com a frente sul, a opção B chega a '+f2(B.L)+' m, com quartos de 15,98 m² e lavanderia, com sala única longitudinal e cozinha integrada de 17 m², mas depende mais das torres.</p></div>'+
   '<div class="card tint" style="--c:var(--brass)"><h3>Quando há lote mais largo</h3><p style="margin-bottom:0">As opções C e D já tinham banhos de 2,20 e 2,60 m de largura: recebem o arranjo acessível sem mudar de tamanho. Com 12,5 m ou mais de frente, a opção C oferece quartos de 20 m² e sala de '+f1(C.a.sala)+' m²; a partir de 14,5 m, a opção D chega a quartos de 25 m² e sala acima de 60 m².</p></div></div>';
 }
 
